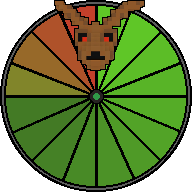
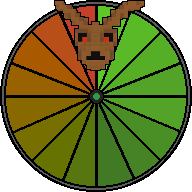
Changed timer background, fixed showing items at start, added half first phase message and late game message.

Changed region(s): [[0.0312, 0.1562, 0.6875, 0.9688]]

diff --git a/src/Managers/TutorialManager.cpp b/src/Managers/TutorialManager.cpp
@@ -26,7 +26,22 @@ void TutorialManager::Init() {
 
 void TutorialManager::Update() {
     //std::cout << "tutorial skonczony: " << _isTutorialEnded << "   aktualna wiadomosc: " << _actualMessage << std::endl;
-    if(_isTutorialEnded) return;
+
+    if(_isAfterEndGameActivation){
+        DisplaySpecialMessage("YOU HAVE MAXED UPGRADES AND 1 MIN TO GATHER MATERIALS BEFORE AN ENDLESS WAVE");
+    }
+
+    if(!_isAfterEndGameInfo && GAMEMANAGER.GetRoundNumber() == 3 && !_isAfterEndGameActivation){
+        _isAfterEndGameInfo = true;
+        DisplaySpecialMessage("THANKS FOR PLAYING THE DEMO. PRESS [9] TO SKIP TO END GAME MODE OR WAIT AND PLAY NORMALLY.");
+    }
+
+    if(!_isAfterHalfTimeMessage && HUD._isAfterTutorialPhaseInfo){
+        if(GAMEMANAGER.GetCurrentTime() > GAMEMANAGER.GetPhaseTime()/2){
+            _isAfterHalfTimeMessage = true;
+            DisplaySpecialMessage("REMEMBER TO COME BACK IN TIME!");
+        }
+    }
 
     if(_isSpecialMessage){
         if(_specialMessageTimer < 5){
@@ -35,13 +50,15 @@ void TutorialManager::Update() {
         }else{
             _specialMessageTimer = 0.0f;
             _isSpecialMessage = false;
-            if(_actualMessage <= 9){
+            if(_actualMessage <= 9 && !_isTutorialEnded){
                 HUD._actualText = _messages[_actualMessage - 1];
             }else{
                 SetFalseTutorialNeededAtMoment();
             }
         }
     }
+
+    if(_isTutorialEnded) return;
 
     switch (_actualMessage) {
         //konczy sie po wyladowaniu
@@ -385,4 +402,7 @@ void TutorialManager::Reset() {
     _metBeetle = false;
     _metWasp = false;
     _hasLanded = false;
+    _isAfterHalfTimeMessage = false;
+    _isAfterEndGameInfo = false;
+    _isAfterEndGameActivation = false;
 }

diff --git a/src/main.cpp b/src/main.cpp
@@ -425,18 +425,19 @@ int main(int, char**)
             // (at the end of loop) is also working, so it is recommended to not move it
             // moving may cause some problems like lack of smoothness or models bugging
             glClear(GL_DEPTH_BUFFER_BIT); // Clear depth because you want items always "closest to screen"
-            shovelRenderer->RenderShovel(Transform::Origin());
+
+            if(GAMEMANAGER._sinceStartClickedTimer > 3){
+                shovelRenderer->RenderShovel(Transform::Origin());
+                uPDAAntennaRenderer->RenderShovel(Transform::Origin());
+                uPDARenderer->RenderShovel(Transform::Origin());
+                compassDownRenderer->RenderShovel(Transform::Origin());
+                compassUpRenderer->RenderShovel(Transform::Origin());
+                compassRenderer->RenderShovel(Transform::Origin());
+            }
+
             shovelController->RealUpdate();
-
-            uPDAAntennaRenderer->RenderShovel(Transform::Origin());
-            uPDARenderer->RenderShovel(Transform::Origin());
             uPDAController->RealUpdate();
-
-            compassDownRenderer->RenderShovel(Transform::Origin());
-            compassUpRenderer->RenderShovel(Transform::Origin());
-            compassRenderer->RenderShovel(Transform::Origin());
             compassController->RealUpdate();
-
             shovelShader->use();
             shovelShader->setVec3("viewPos", viewPos);
             shovelShader->setMat4("projection", projection);

diff --git a/src/Managers/GameManager.cpp b/src/Managers/GameManager.cpp
@@ -54,6 +54,7 @@ void GameManager::RemovePlastic(int amount)
 }
 
 void GameManager::StartGame() {
+    _clickedStart = true;
     _isInMainMenu = false;
     GAMEMANAGER._editMode = false;
     INPUT.SetCursorMode(false);
@@ -85,6 +86,7 @@ float GameManager::GetPhaseTime()
 
 void GameManager::LateGame()
 {
+    TUTORIALMANAGER._isAfterEndGameActivation = true;
     ENEMIESMANAGER.Reset();
     _roundNumber = _phaseTimes.size() - 1;
     _currentPhase = Phase::DIG;
@@ -116,6 +118,10 @@ void GameManager::RoundWon()
 }
 
 void GameManager::Update() {
+
+    if(_clickedStart){
+        _sinceStartClickedTimer += TIME.GetDeltaTime();
+    }
 
     if(INPUT.IsKeyPressed(GLFW_KEY_KP_5)){
         ENEMIESMANAGER.Reset();
@@ -249,6 +255,8 @@ void GameManager::RestartGame() {
     DisableMouse();
     AUDIOMANAGER.Reset();
     Unpause();
+    _sinceStartClickedTimer = 0;
+    _clickedStart = false;
 }
 
 void GameManager::LoseGame() {

diff --git a/src/Managers/TutorialManager.h b/src/Managers/TutorialManager.h
@@ -111,6 +111,12 @@ public:
     void SetFalseTutorialNeededAtMoment();
 
     bool _hasLanded = false;
+
+    bool _isAfterHalfTimeMessage = false;
+
+    bool _isAfterEndGameInfo = false;
+
+    bool _isAfterEndGameActivation = false;
 };
 
 

diff --git a/src/Managers/GameManager.h b/src/Managers/GameManager.h
@@ -88,6 +88,9 @@ public:
 
     Phase _currentPhase = Phase::DIG;
 
+    float _sinceStartClickedTimer = 0;
+    bool _clickedStart = false;
+
 private:
     int _roundNumber = 0;
     int _plastic = 5;
